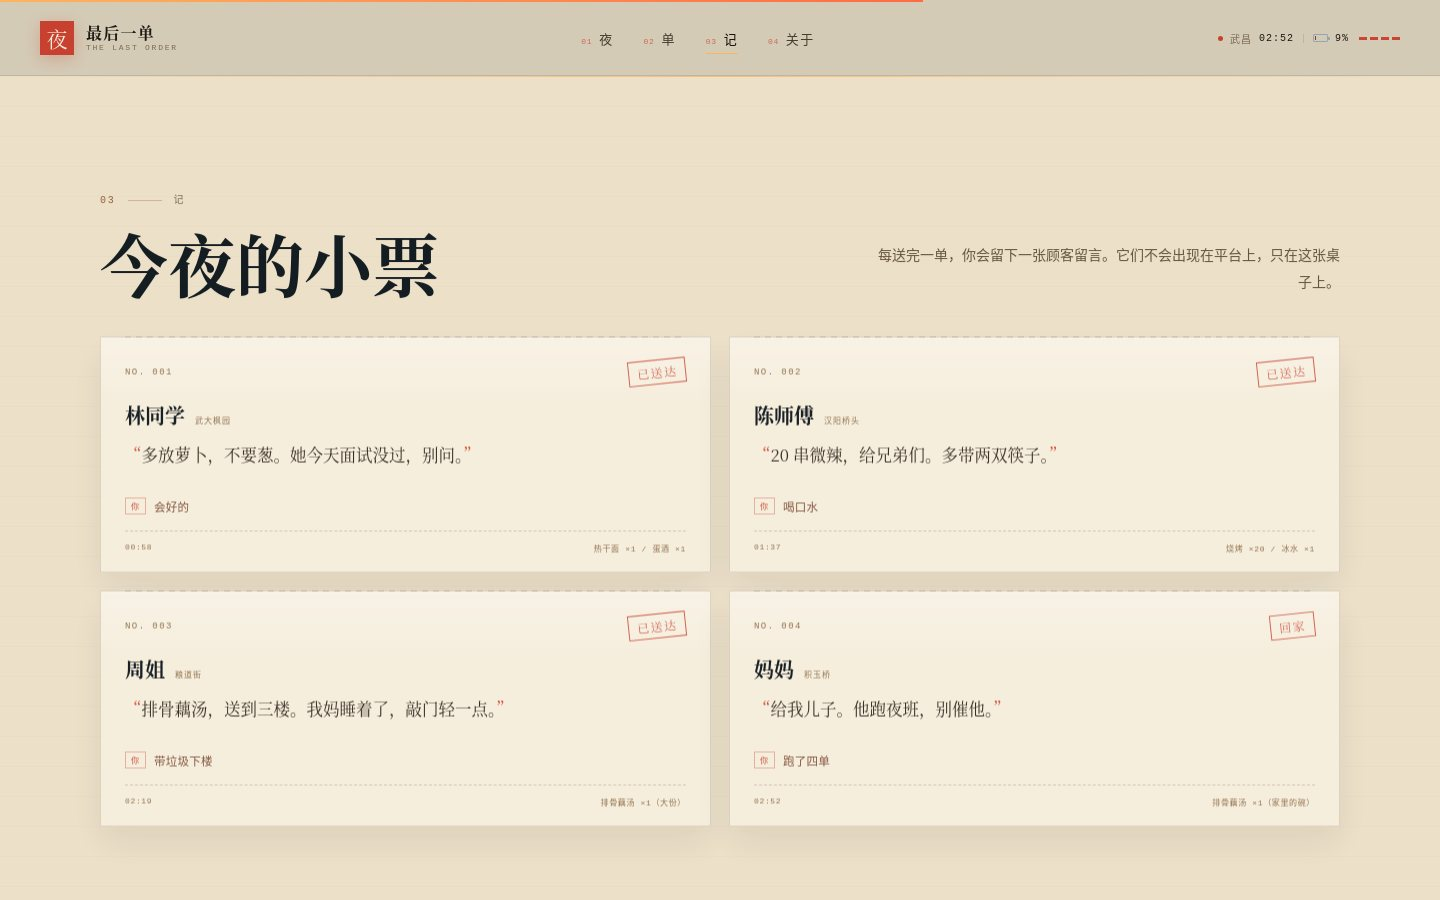
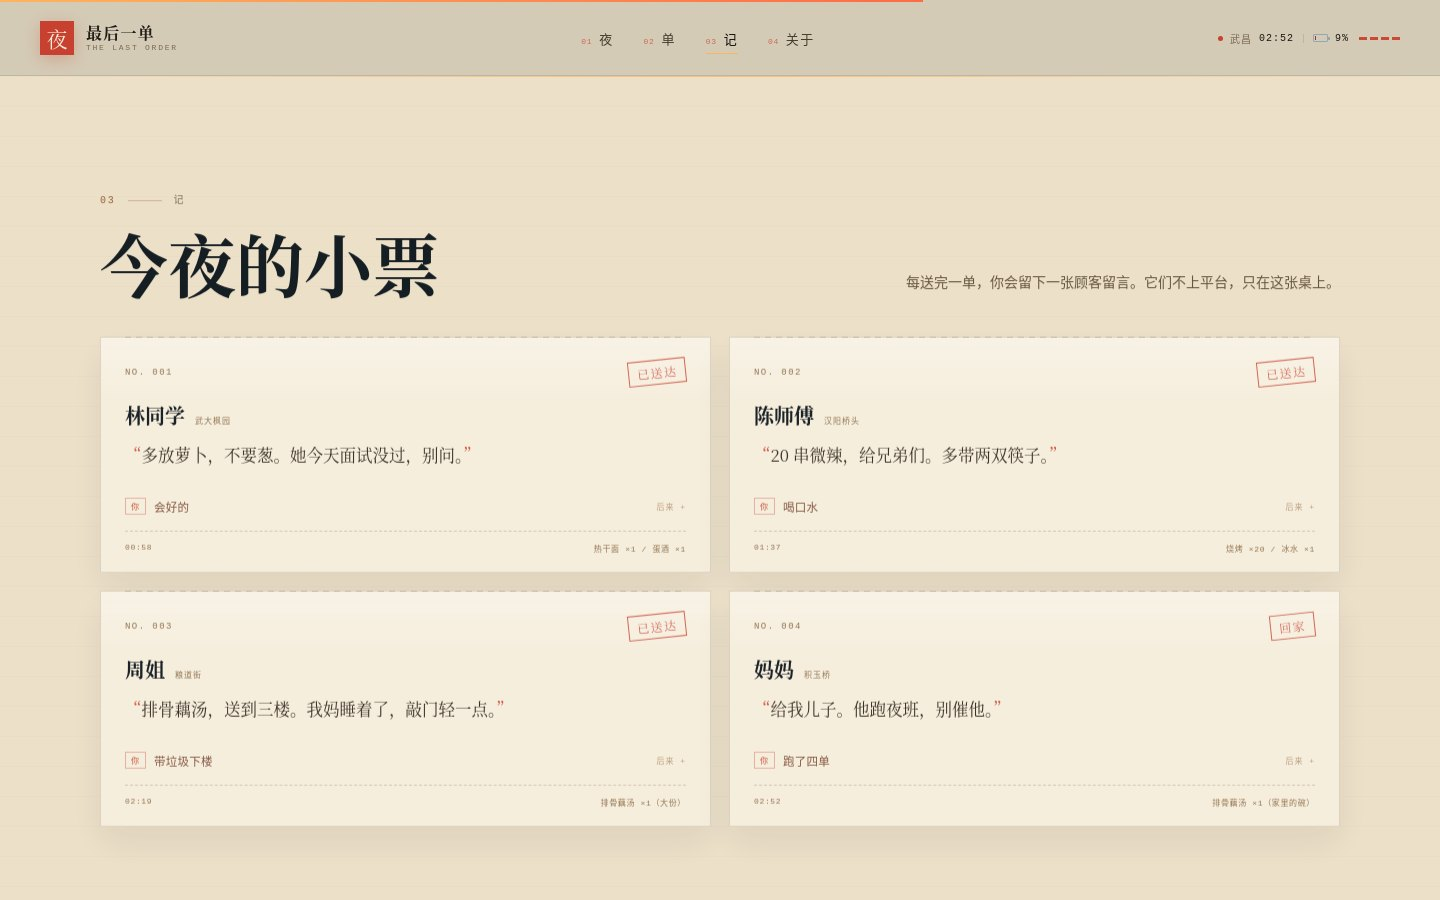
fix: 浮层收起顶部进度条，收工纸票留出底部余量

Changed region(s): [[0.625, 0.28, 0.9375, 0.3422]]

diff --git a/assets/css/main.css b/assets/css/main.css
@@ -90,7 +90,11 @@ button, a { -webkit-tap-highlight-color: transparent; }
   transform-origin: 0 50%;
   background: linear-gradient(90deg, var(--amber), var(--ember));
   pointer-events: none;
+  transition: opacity .18s ease;
 }
+/* 场景 / 收工浮层打开时收起顶部进度条：它属于页面，不属于这张票。 */
+body:has(.scene:not([hidden])) .scroll-progress,
+body:has(.summary:not([hidden])) .scroll-progress { opacity: 0; }
 
 .wrap {
   width: min(1240px, calc(100% - 112px));
@@ -1434,7 +1438,7 @@ html.is-locked, html.is-locked body { overflow: hidden; }
 }
 .receipt {
   position: relative;
-  padding: 30px 32px 24px;
+  padding: 24px 32px 20px;
   background:
     linear-gradient(180deg, rgba(255, 255, 255, .35), transparent 16%),
     var(--paper-3);
@@ -1453,7 +1457,7 @@ html.is-locked, html.is-locked body { overflow: hidden; }
 }
 .receipt-head { display: flex; justify-content: space-between; gap: 14px; font-family: var(--mono); font-size: 8px; letter-spacing: .12em; color: #8a6a45; }
 .receipt h2 {
-  margin-top: 22px;
+  margin-top: 18px;
   font-family: var(--serif);
   font-size: 46px;
   font-weight: 700;
@@ -1462,7 +1466,7 @@ html.is-locked, html.is-locked body { overflow: hidden; }
   color: var(--ink);
 }
 .receipt-sub { margin-top: 8px; font-family: var(--mono); font-size: 9px; letter-spacing: .1em; color: #7a6248; }
-.receipt-stats { display: grid; grid-template-columns: repeat(3, 1fr); gap: 10px; margin-top: 20px; }
+.receipt-stats { display: grid; grid-template-columns: repeat(3, 1fr); gap: 10px; margin-top: 16px; }
 .receipt-stats div { display: flex; flex-direction: column; gap: 2px; }
 .receipt-stats b { font-family: var(--serif); font-size: 32px; font-weight: 700; line-height: 1; color: var(--ink); }
 .receipt-stats span { font-family: var(--mono); font-size: 8px; letter-spacing: .12em; color: #8a6a45; }
@@ -1473,7 +1477,7 @@ html.is-locked, html.is-locked body { overflow: hidden; }
   display: grid;
   grid-template-columns: 78px minmax(0, 1fr);
   gap: 8px;
-  margin-top: 15px;
+  margin-top: 12px;
   padding: 8px 10px 8px 12px;
   background:
     radial-gradient(90% 140% at 12% 20%, rgba(255, 180, 92, .08), transparent 60%),
@@ -1498,7 +1502,7 @@ html.is-locked, html.is-locked body { overflow: hidden; }
 .receipt-route .mini-stop.is-final circle { stroke: #ff6b45; }
 .receipt-route .mini-stop text { fill: #ffd9a8; font-family: var(--mono); font-size: 7.5px; letter-spacing: .02em; }
 
-.receipt-divider { margin: 16px 0; border-top: 1px dashed rgba(70, 48, 25, .3); }
+.receipt-divider { margin: 14px 0; border-top: 1px dashed rgba(70, 48, 25, .3); }
 .receipt-list { display: flex; flex-direction: column; gap: 10px; }
 .receipt-list li { display: grid; grid-template-columns: 48px 1fr; gap: 10px; align-items: baseline; }
 .receipt-list .r-no { font-family: var(--mono); font-size: 8px; letter-spacing: .06em; color: #8a6a45; white-space: nowrap; }
@@ -1514,7 +1518,7 @@ html.is-locked, html.is-locked body { overflow: hidden; }
 }
 .receipt-list .r-body span { display: block; margin-top: 3px; font-family: var(--mono); font-size: 8px; letter-spacing: .06em; color: #8a6a45; }
 .receipt-line {
-  margin-top: 20px;
+  margin-top: 16px;
   font-family: var(--serif);
   font-size: 20px;
   line-height: 1.6;
@@ -1537,7 +1541,7 @@ html.is-locked, html.is-locked body { overflow: hidden; }
   transform: rotate(-12deg);
   opacity: .78;
 }
-.receipt-foot { display: flex; justify-content: space-between; gap: 12px; margin-top: 22px; padding-top: 12px; border-top: 1px dashed rgba(70, 48, 25, .3); font-family: var(--mono); font-size: 8px; letter-spacing: .1em; color: #8a6a45; }
+.receipt-foot { display: flex; justify-content: space-between; gap: 12px; margin-top: 16px; padding-top: 12px; border-top: 1px dashed rgba(70, 48, 25, .3); font-family: var(--mono); font-size: 8px; letter-spacing: .1em; color: #8a6a45; }
 .summary-actions { display: flex; flex-direction: column; gap: 9px; margin-top: 16px; }
 .summary-actions .btn { width: 100%; }
 .summary-actions .btn-primary { min-height: 52px; }

diff --git a/index.html b/index.html
@@ -572,7 +572,7 @@
             <p class="eyebrow"><span>03</span><i></i><span>记</span></p>
             <h2 id="notesTitle">今夜的小票</h2>
           </div>
-          <p>每送完一单，你会留下一张顾客留言。它们不会出现在平台上，只在这张桌子上。</p>
+          <p>每送完一单，你会留下一张顾客留言。它们不上平台，只在这张桌上。</p>
         </div>
         <div class="ticket-row" id="ticketRow"></div>
         <div class="night-log">

diff --git a/STATE.md b/STATE.md
@@ -71,6 +71,7 @@
 - [x] 收工三颗按钮重排：主操作独占一行，两个次操作并排，1440×900 全部留在首屏（第 30 轮）
 - [x] 小票「你」签可点开「后来」：展开选择之后发生的那一句，一次一张，键盘可操作，存档票同享（第 31 轮）
 - [x] 收工小票可复制「这一夜」的链接：`?night=N&c=0101` 只带四位选择，打开还原四张小票与路网，标 SHARED 且不覆盖本地存档（第 32 轮）
+- [x] 场景 / 收工浮层盖住顶部进度条；纸票区导语收成单行；收工纸票底部留出余量（底 862）（第 33 轮）
 - [ ] 真实手机 / 真实 Chrome 129 走查
 - [x] `scripts/pack.sh` 实跑：完整版含 progress，匿名版无占位符/个人信息，两个 zip 可直接打开
 - [ ] 可选：环境声（默认关闭）
@@ -119,10 +120,11 @@
 | 11-06 | 收工动作改为主操作通栏 + 两个次操作并排 | 纸票增高后三颗堆叠按钮会把「回到开头」挤出 900px 视口；并排后三颗都可见，主次层级也更清楚 |
 | 11-06 | 小票的「你 · …」改成可展开「后来」的按钮 | 选择的 outcome 只在场景里出现一次，收工后无法重读；把它收进票面，小票区从静态陈列变成可回看的抽屉，且复用已有文案，不改变流程与结果 |
 | 11-06 | 分享链接只序列化四位选择，不序列化整张小票 | 每张小票完全由「哪一单 + 门口选哪个」决定，四位 `0/1` 最短、可手抄、不会把旧文案冻进链接；打开时只填内存、不写 `localStorage`，避免覆盖访问者自己的夜班 |
+| 11-06 | 浮层打开时收起滚动进度条，并压缩纸票内边距 | 2px 进度条 `z-index:210` 压在场景 / 收工层上，像一道划痕；改由 `body:has(...)` 在浮层打开时淡出，不抬高浮层层级、不改变纸票纹理。纸票原来底边 899 贴着 900 视口，压掉 35px 内边距后留出 38px 呼吸位 |
 
 ## 七、当前阶段 & 下一步
 
-**可上线状态**：目录即站点，`index.html` 直接打开可玩，push 即部署。第 19 轮完成完全重构，第 20 轮完成打包实跑与收工小票背景光，第 21 轮补齐第一段场景的两人共伞，第 22 轮补齐后三段场景细部并把四段场景截图纳入回归，第 23 轮补 1440×720 矮横屏首屏断点并实拍复核 390 场景，第 24 轮给地图补指北针与比例尺中刻度并把两者纳入回归，第 25 轮把每单的选择写进场景小票、存档小票、收工纸票与 PNG，并修掉纸面锚点的顶栏配色与暗缝；第 26 轮让第四单门口的选择决定纸票落款（「最后一单，是妈下的。」/「最后一单，是回家。」），Canvas PNG 同步。第 27 轮把顶栏做成实时夜班状态。第 28 轮让走过的路留在地图上。第 29 轮补上刷新后的记忆：从 `localStorage` 复原上一夜 6 段路网与 01–04 送达点，地图时钟、接单面板、LIVE/ARCHIVE 标签与夜班日志一起切到 02:52 收工态；点「再跑一夜」才清空旧路网。第 30 轮把同一份路网缩进收工纸票与 Canvas PNG，并把收工动作重排为一颗主操作 + 两颗并排次操作；1440 与 390 回归均通过，纸票上的 6 段路 / 4 个点与三颗按钮在首屏内都有断言。第 31 轮让小票上的「你」签可点开「后来」，把当时那句话之后发生的事收进票面，一次只开一张，存档票也能重读；新增回归断言与展开态截图。第 32 轮让收工纸票可以「复制这一夜的链接」：`?night=N&c=0101` 只带四位选择，打开后按同一份数据还原四张小票与路网，地图标 SHARED，只读不覆盖访问者存档；桌面与 390 回归均通过。`node scripts/regression.mjs` 在 1920 / 1440 / 720 / 390 全部通过，1440 与 390 各跑完整一夜，1440×720 另跑首屏断言。
+**可上线状态**：目录即站点，`index.html` 直接打开可玩，push 即部署。第 19 轮完成完全重构，第 20 轮完成打包实跑与收工小票背景光，第 21 轮补齐第一段场景的两人共伞，第 22 轮补齐后三段场景细部并把四段场景截图纳入回归，第 23 轮补 1440×720 矮横屏首屏断点并实拍复核 390 场景，第 24 轮给地图补指北针与比例尺中刻度并把两者纳入回归，第 25 轮把每单的选择写进场景小票、存档小票、收工纸票与 PNG，并修掉纸面锚点的顶栏配色与暗缝；第 26 轮让第四单门口的选择决定纸票落款（「最后一单，是妈下的。」/「最后一单，是回家。」），Canvas PNG 同步。第 27 轮把顶栏做成实时夜班状态。第 28 轮让走过的路留在地图上。第 29 轮补上刷新后的记忆：从 `localStorage` 复原上一夜 6 段路网与 01–04 送达点，地图时钟、接单面板、LIVE/ARCHIVE 标签与夜班日志一起切到 02:52 收工态；点「再跑一夜」才清空旧路网。第 30 轮把同一份路网缩进收工纸票与 Canvas PNG，并把收工动作重排为一颗主操作 + 两颗并排次操作；1440 与 390 回归均通过，纸票上的 6 段路 / 4 个点与三颗按钮在首屏内都有断言。第 31 轮让小票上的「你」签可点开「后来」，把当时那句话之后发生的事收进票面，一次只开一张，存档票也能重读；新增回归断言与展开态截图。第 32 轮让收工纸票可以「复制这一夜的链接」：`?night=N&c=0101` 只带四位选择，打开后按同一份数据还原四张小票与路网，地图标 SHARED，只读不覆盖访问者存档；桌面与 390 回归均通过。第 33 轮做了一次浮层视觉回归：场景 / 收工层打开时顶部进度条淡出，纸票内边距压缩后三颗按钮底边从 899 退到 862，纸票区导语收成单行；回归新增进度条透明度与底部余量断言。`node scripts/regression.mjs` 在 1920 / 1440 / 720 / 390 全部通过，1440 与 390 各跑完整一夜，1440×720 另跑首屏断言。
 
 **下一步**：① 真实 Chrome 129 + 真实手机走查并记录；② 可选：第二夜换一组订单，让「再跑一夜」有内容上的差别；③ 可选：环境声默认关闭；④ 路网存根可加取餐 / 送达图例或比例尺，但需先确认不把小票撑高。
 

diff --git a/docs/design.md b/docs/design.md
@@ -94,6 +94,7 @@
 - `localStorage` 键：`lastorder.v1`；写入 `{ nights, last: { date, tickets, choices, stats } }`，每张 ticket 带 `choice` 短标签。读取时校验数组与字段，旧数据没有 `choice` 时只是少一行，不报错；`file://` 下写入失败也不影响当前这一夜。
 - 「再跑一夜」保留已完成的夜数与上一夜小票，当前这一夜重新开始；刷新后，上一夜仍在「今夜的小票」里，地图时钟、接单面板与 LIVE / ARCHIVE 标签同步切到 02:52 的收工态。
 - 分享链接不序列化整张小票，只序列化四位选择（每单一位，`0` / `1`）；小票文案仍从 `data.js` 读取，因此链接短、可手抄，也不会把旧文案冻进存档。分享按钮优先走 `navigator.clipboard`，非安全上下文退回 `textarea + execCommand`；打开分享链接时只填充内存里的 `store`，不写 `localStorage`，点「再跑一夜」即清掉分享态与查询参数。
+- 页面顶部有一条 2px 的阅读进度条；场景或收工浮层打开时，它通过 `body:has(...)` 淡出——浮层属于「这一单」，不属于整页的滚动位置。纸票的内边距同时压紧 35px，1440×900 下三颗按钮的底边从 899 退到 862，纸票不再贴着视口底边。
 
 ![收工小票，1440×900 实机](screenshots/summary-1440.jpg)
 

diff --git a/progress/2026-11-06.md b/progress/2026-11-06.md
@@ -29,3 +29,11 @@
 - 版式：分享入口放在纸票页眉（日期右侧）的「分享 ↗」，不新增按钮行、不增高纸票，也不进入 Canvas PNG。
 - 验证：`ONLY=desktop` 与 `ONLY=mobile` 均全部通过；新增 SHARED 标记、四张小票还原、第 3 夜显示、本地存档不被改写四条断言；README / design.md / STATE / BACKLOG 同步。
 - 遗留：真实 Chrome 129 / 真机仍未走查；第二夜仍是同一组订单；Web Share 原生面板未接。
+
+
+# 2026-11-06 · 第 33 轮
+
+- 目标：做一轮浮层视觉回归——把压在场景 / 收工层上的顶部进度条收掉，并让收工纸票不再贴着视口底边。
+- 做了什么：`body:has(.scene:not([hidden]))` / `body:has(.summary:not([hidden]))` 让 2px 进度条淡出，不移动浮层层级；纸票内边距与段落间距共压 35px，三颗按钮底边从 899 退到 862；小票区导语改短，收成单行。
+- 验证：`ONLY=desktop` 全通过，新增「场景 / 收工浮层打开时进度条收起」「回到页面恢复」「按钮底边 ≤ 886」断言；1440 实拍复核纸票留白与顶栏。
+- 遗留：真实 Chrome 129 / 真机仍未走查；第二夜仍是同一组订单。

diff --git a/BACKLOG.md b/BACKLOG.md
@@ -38,6 +38,7 @@
 - [x] 纸面锚点顶栏切纸色，收掉 20px 暗缝（第 25 轮）
 - [x] 小票「你」签可展开「后来」，一次一张，存档可重读（第 31 轮）
 - [x] 收工纸票可复制这一夜的链接，打开还原同一组选择与路网（第 32 轮）
+- [x] 浮层打开时收起顶部进度条；纸票区导语单行；收工纸票底部留白（底 862）（第 33 轮）
 
 ## P2 · 功能 20
 
@@ -72,6 +73,7 @@
 - [x] 轨迹累积、01–04 送达点、再跑一夜清空断言（第 28 轮）
 - [x] 刷新后 6 段存档路网 + 01–04 送达点复原、收工态同步断言（第 29 轮）
 - [x] 分享链接还原四张小票 / SHARED 标记 / 不写本地存档断言（第 32 轮）
+- [x] 浮层打开时进度条收起、回到页面恢复；收工按钮底边 ≤ 886 断言（第 33 轮）
 - [ ] 真实 Chrome 129 / 真实手机走查
 - [x] 收工纸票路网存根与按钮首屏断言（第 30 轮）
 - [x] 981–1100px 窄桌面顶栏三组占位实拍复核（981 / 1000px 不重叠）
